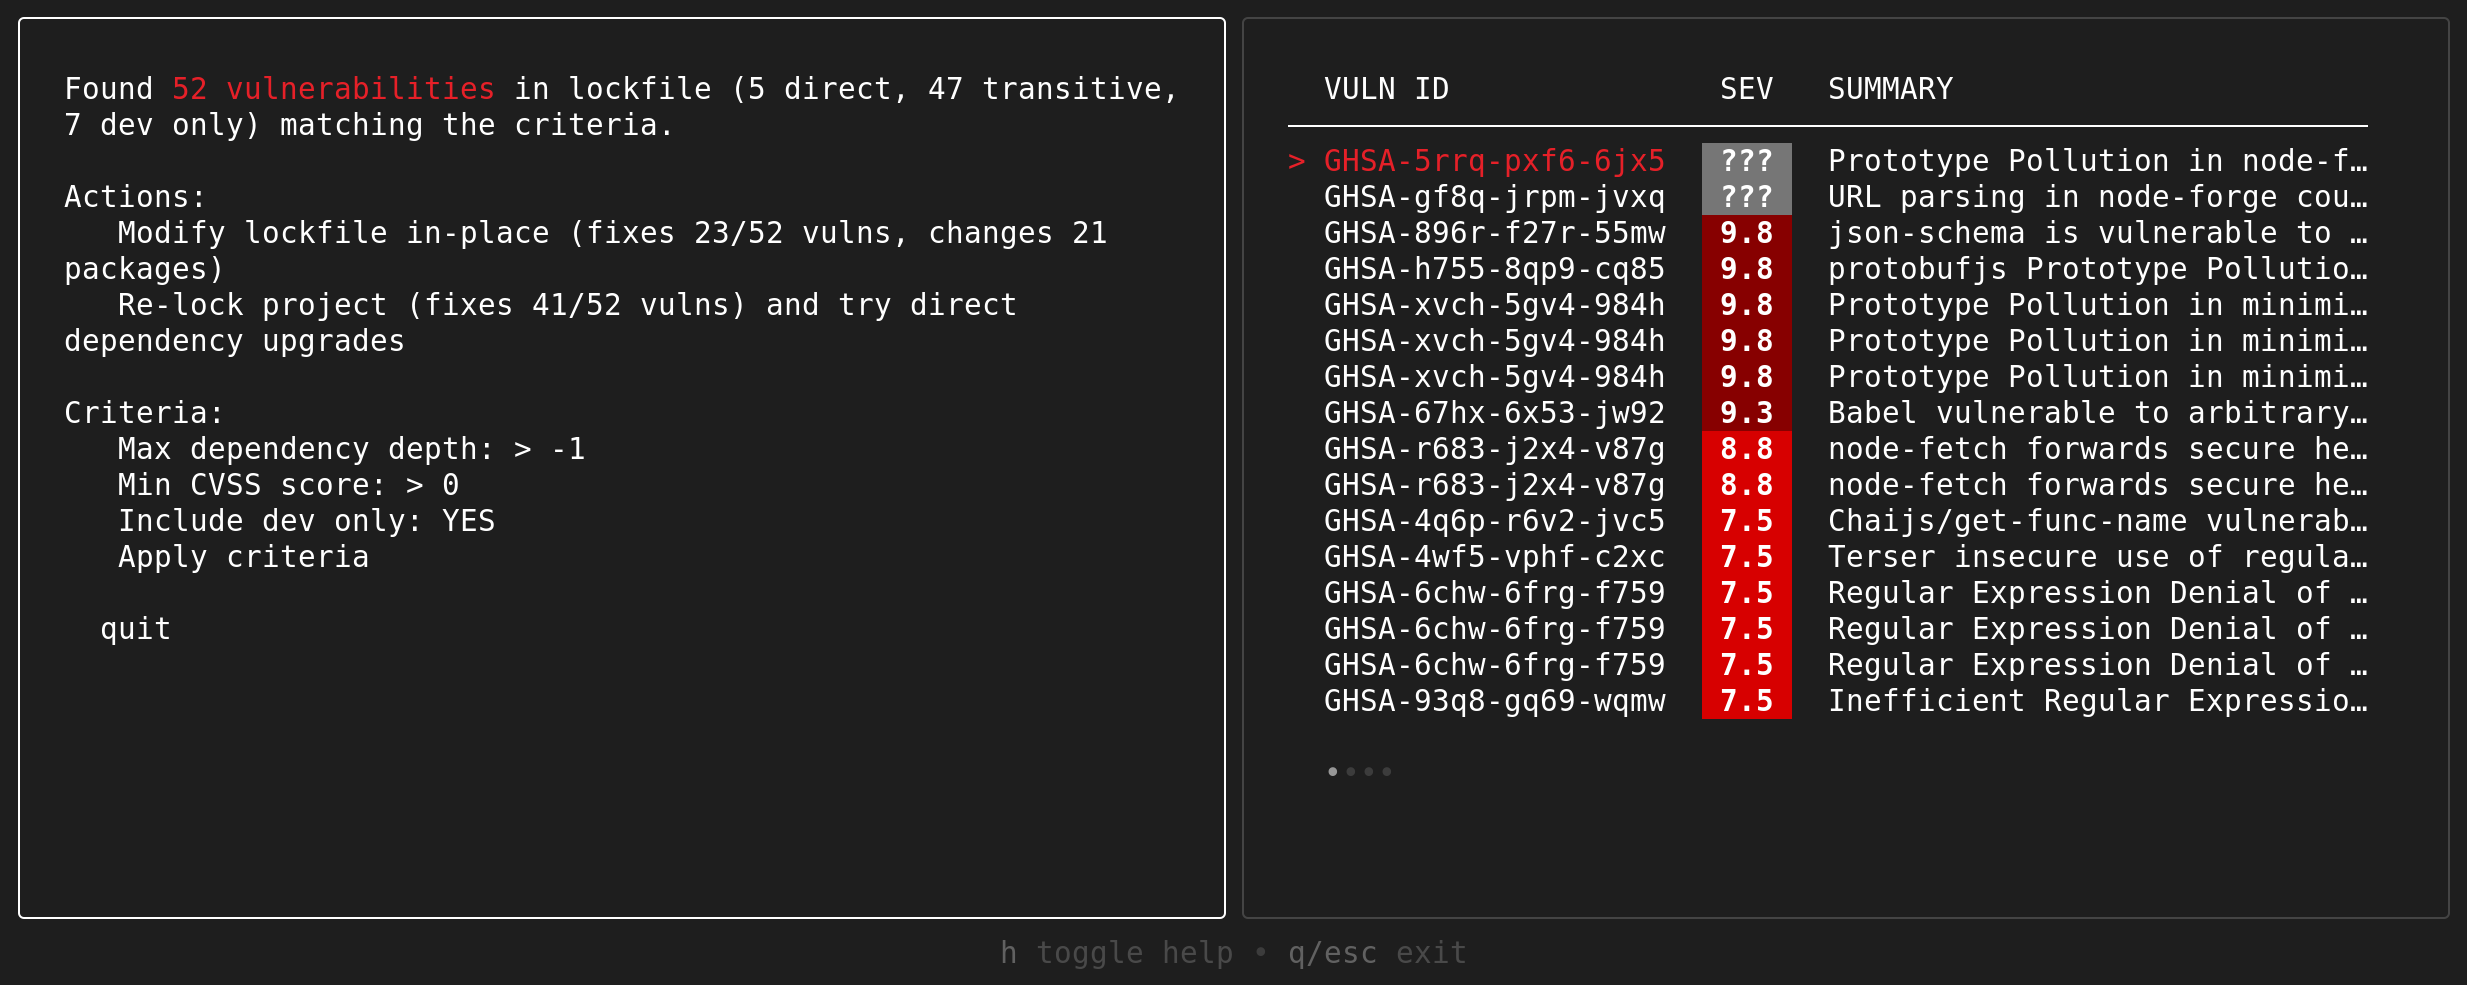
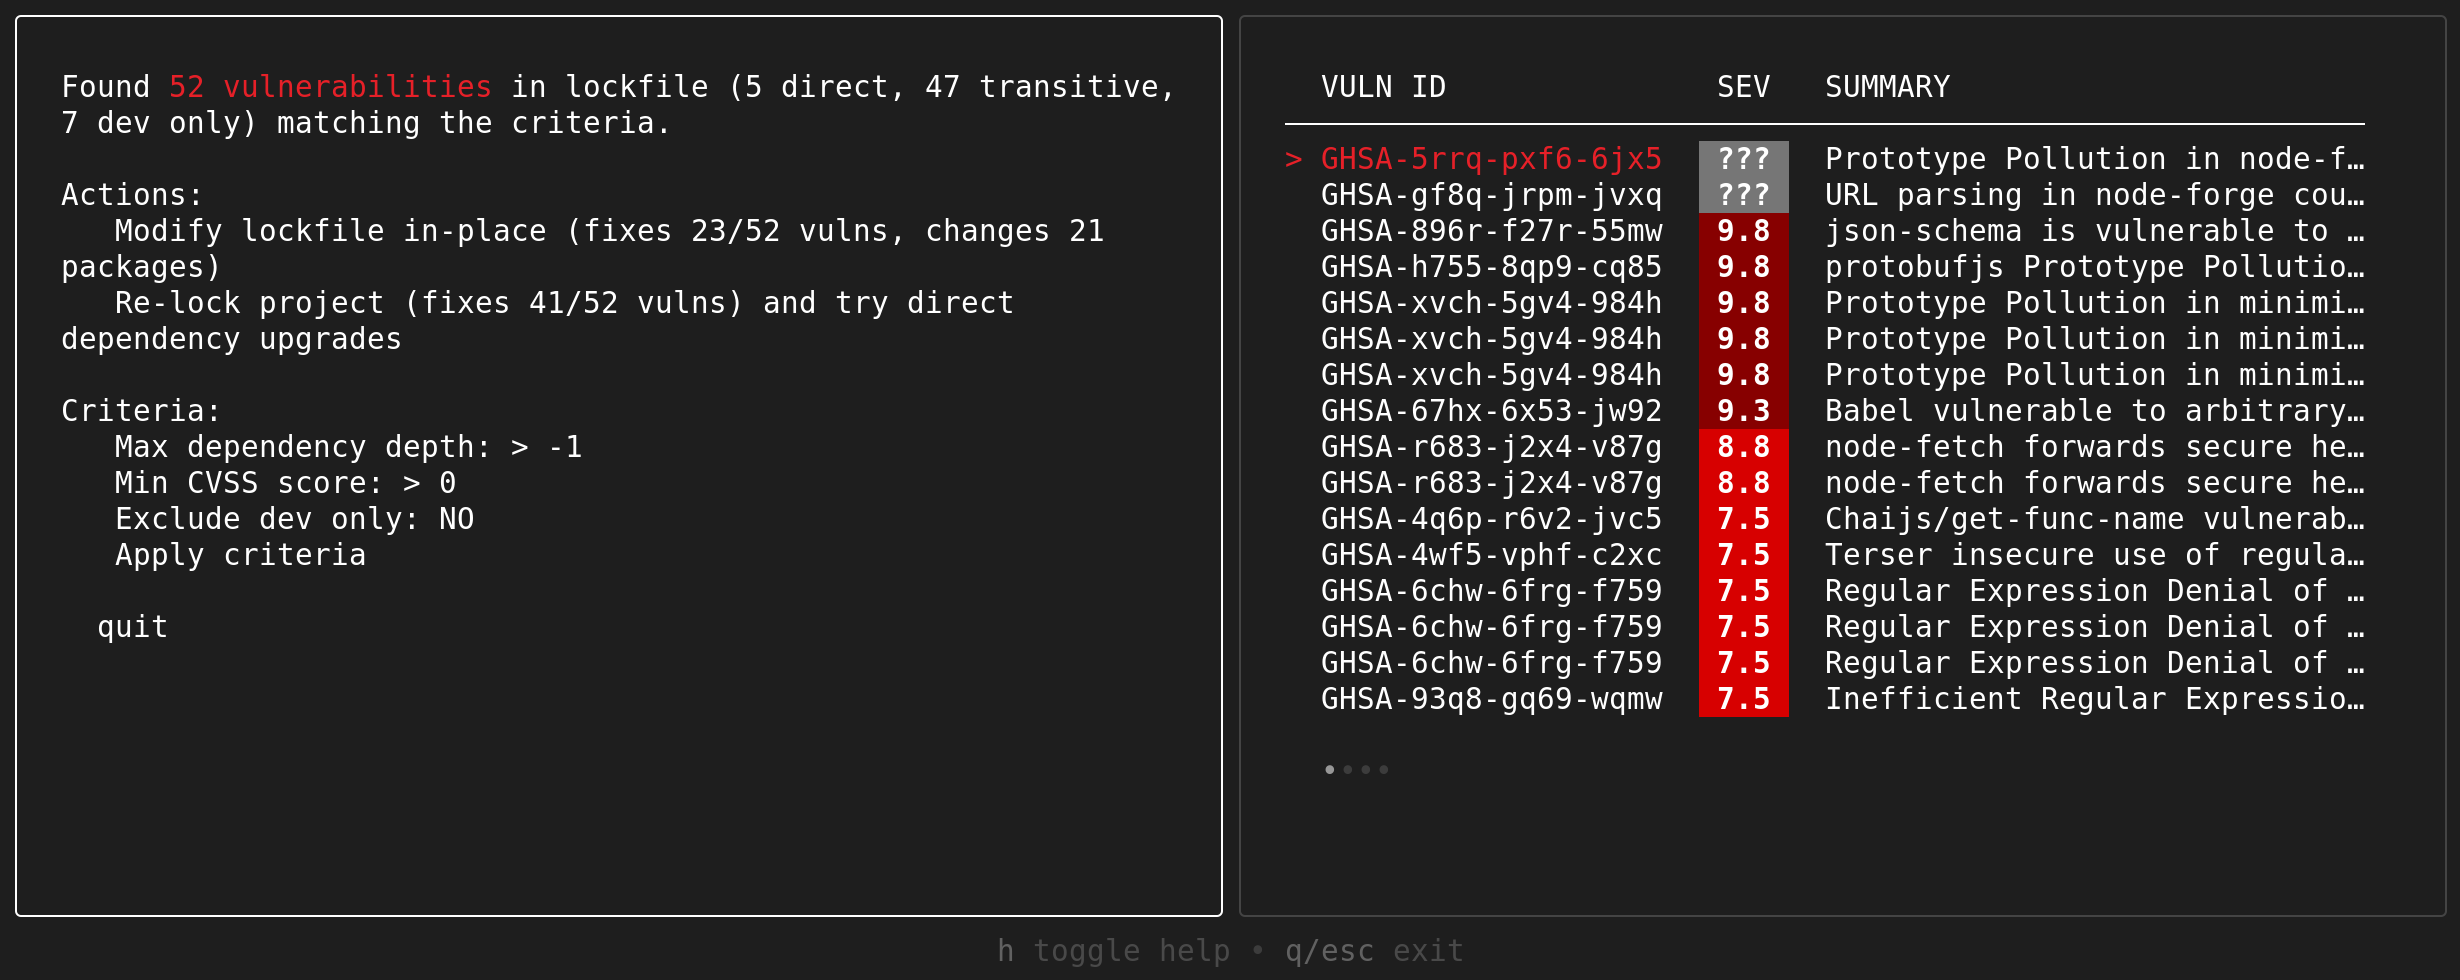
Make interactive mode consistent with `--ignore-dev`

diff --git a/cmd/osv-scanner/fix/state-choose-strategy.go b/cmd/osv-scanner/fix/state-choose-strategy.go
@@ -297,14 +297,14 @@ func (st *stateChooseStrategy) View(m model) string {
 	))
 
 	devString := "YES"
-	if !m.options.DevDeps {
+	if m.options.DevDeps {
 		devString = "NO"
 	}
 	s.WriteString(tui.RenderSelectorOption(
 		st.cursorPos == stateChooseDev,
 		" > ",
 		fmt.Sprintf("%%s: %s\n", devString),
-		"Include dev only",
+		"Exclude dev only",
 	))
 	s.WriteString(tui.RenderSelectorOption(
 		st.cursorPos == stateChooseApplyCriteria,

diff --git a/docs/guided-remediation.md b/docs/guided-remediation.md
@@ -49,7 +49,7 @@ The command will launch the Guided Remediation TUI and begin scanning your manif
 >
 > - Max dependency depth: `--max-depth`
 > - Min CVSS score: `--min-severity`
-> - Include dev only: `--ignore-dev`
+> - Exclude dev only: `--ignore-dev`
 
 From the first results screen, you can select which of the two remediation strategies to attempt.
 
